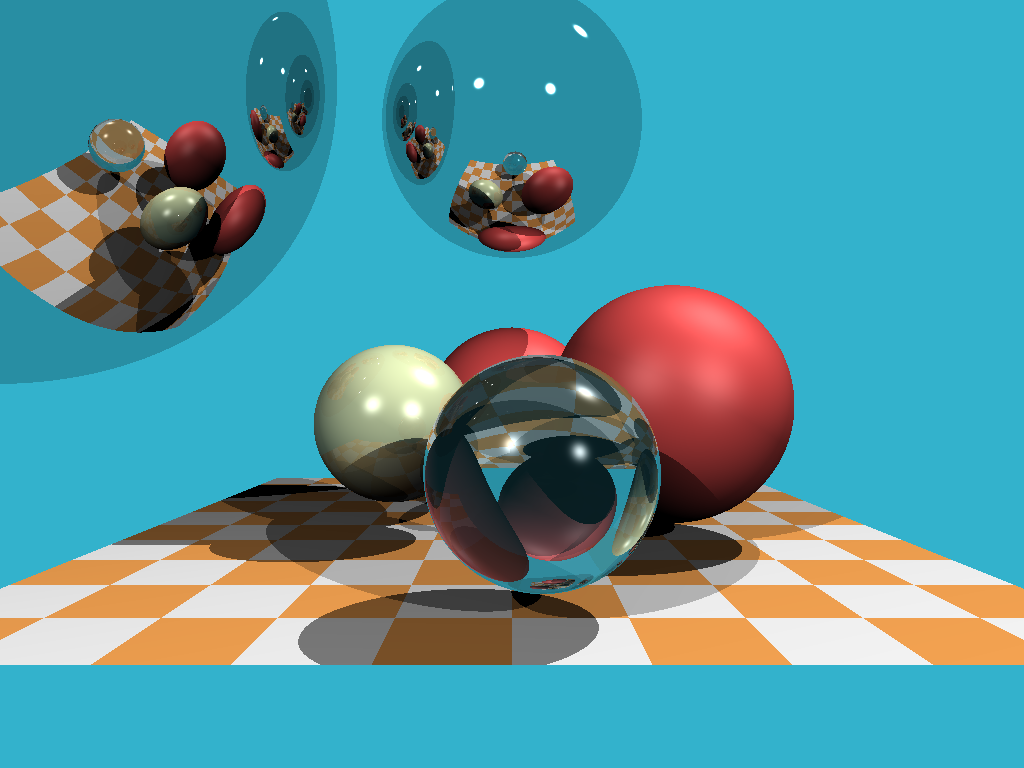
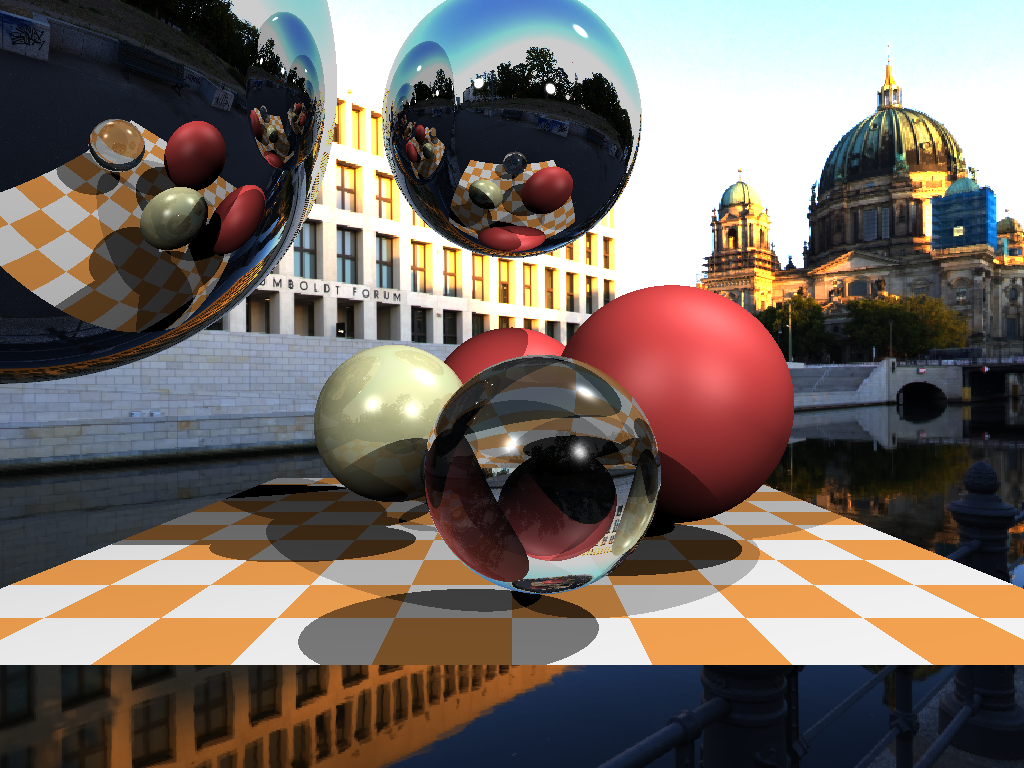
implement skybox

diff --git a/src/main.rs b/src/main.rs
@@ -1,10 +1,13 @@
 #![allow(unused_assignments)]
+use num;
 use std::fs::File;
 use std::io::prelude::*;
 pub mod geometry;
 
 const WIDTH: u32 = 1024;
 const HEIGHT: u32 = 768;
+const ENVMAP_WIDTH: u32 = 4096;
+const ENVMAP_HEIGHT: u32 = 2048;
 const FOV: f64 = 0.5;
 
 fn vec3f(x0: f64, y0: f64, z0: f64) -> geometry::Vec3f {
@@ -130,21 +133,24 @@ fn scene_intersect(orig: geometry::Vec3f, dir: geometry::Vec3f, spheres: &mut Ve
     f64::min(spheres_dist, checkerboard_dist) < 1000.
 }
 
-fn cast_ray(orig: geometry::Vec3f, dir: geometry::Vec3f, spheres: &mut Vec<Sphere>, lights: &mut Vec<Light>, depth: usize) -> geometry::Vec3f {
+fn cast_ray(orig: geometry::Vec3f, dir: geometry::Vec3f, spheres: &mut Vec<Sphere>, lights: &mut Vec<Light>, depth: usize, envmap: &Vec<geometry::Vec3<f64>>) -> geometry::Vec3f {
     let mut point: geometry::Vec3f = vec3f(0., 0., 0.);
     let mut n: geometry::Vec3f = vec3f(0., 0., 0.);
     let mut material: Material = Material{diffuse_color: vec3f(0., 0., 0.), albedo: vec4f(0., 0., 0., 0.), specular_exponent: 0., refractive_index: 0.};
 
     if depth > 4 || !scene_intersect(orig, dir, spheres, &mut point, &mut n, &mut material) {
-	return vec3f(0.2, 0.7, 0.8); // background color
+	//return vec3f(0.2, 0.7, 0.8); // background color
+	let a: u32 = num::clamp((((dir.z.atan2(dir.x) / (2.*std::f64::consts::PI) + 0.5) * ENVMAP_WIDTH as f64)) as u32, 0, ENVMAP_WIDTH - 1);
+	let b: u32 = num::clamp((dir.y.acos() / std::f64::consts::PI*ENVMAP_HEIGHT as f64) as u32, 0, ENVMAP_HEIGHT - 1);
+	return envmap[(a + b * ENVMAP_WIDTH) as usize]
     }
     let reflect_dir: geometry::Vec3f = reflect(dir, n);
     let refract_dir: geometry::Vec3f = refract(dir, n, material.refractive_index).normalize();
     let mirror_n: geometry::Vec3f = vec3f(n.x*0.001, n.y*0.001, n.z*0.001);
     let reflect_orig: geometry::Vec3f = if reflect_dir.dot_product(n) < 0. {point - mirror_n} else {point + mirror_n};
     let refract_orig: geometry::Vec3f = if refract_dir.dot_product(n) < 0. {point - mirror_n} else {point + mirror_n};
-    let reflect_color: geometry::Vec3f = cast_ray(reflect_orig, reflect_dir, spheres, lights, depth+1);
-    let refract_color: geometry::Vec3f = cast_ray(refract_orig, refract_dir, spheres, lights, depth+1);
+    let reflect_color: geometry::Vec3f = cast_ray(reflect_orig, reflect_dir, spheres, lights, depth+1, &envmap);
+    let refract_color: geometry::Vec3f = cast_ray(refract_orig, refract_dir, spheres, lights, depth+1, &envmap);
     let mut diffuse_light_intensity: f64 = 0.;
     let mut specular_light_intensity: f64 = 0.;
     for i in 0..lights.len() {
@@ -166,8 +172,8 @@ fn cast_ray(orig: geometry::Vec3f, dir: geometry::Vec3f, spheres: &mut Vec<Spher
 
 fn save_to_file(file_path: &str, frame_buffer: Vec<geometry::Vec3f>) -> std::io::Result<()> {
     let mut file: File = File::create(file_path)?;
-    file.write_all(b"P3\n1024 768\n255\n")?;
-    for i in 0usize..(HEIGHT*WIDTH) as usize {
+    file.write_all(b"P3\n1024 768\n65535\n")?;
+    for i in 0usize..(1024*768) as usize {
 	let mut c: geometry::Vec3f = frame_buffer[i];
 	let max = f64::max(c[0], f64::max(c[1], c[2]));
 	if max>1. {c = vec3f(c.x * (1./max), c.y * (1./max), c.z * (1./max))}
@@ -175,9 +181,9 @@ fn save_to_file(file_path: &str, frame_buffer: Vec<geometry::Vec3f>) -> std::io:
 	    if frame_buffer[i][j] < 0. {
 		write!(file, "0")?;
 	    } else if frame_buffer[i][j] > 1. {
-		write!(file, "255")?;
+		write!(file, "65535")?;
 	    } else {
-		write!(file, "{}", ((255 as f64 * frame_buffer[i][j]) as u16).to_string())?;
+		write!(file, "{}", ((65535 as f64 * frame_buffer[i][j]) as u16).to_string())?;
 	    }
 	    write!(file, " ")?;
 	}
@@ -195,7 +201,7 @@ fn _gradient(mut frame_buffer: Vec<geometry::Vec3f>) -> Vec<geometry::Vec3f> {
     frame_buffer
 }
 
-fn render(spheres: &mut Vec<Sphere>, lights: &mut Vec<Light>) {
+fn render(spheres: &mut Vec<Sphere>, lights: &mut Vec<Light>, envmap: &Vec<geometry::Vec3f>) {
     let file_path = "output.ppm";
     let mut frame_buffer: Vec<geometry::Vec3f> = Vec::with_capacity(WIDTH as usize*HEIGHT as usize);
     for _i in 0..WIDTH*HEIGHT {
@@ -206,11 +212,51 @@ fn render(spheres: &mut Vec<Sphere>, lights: &mut Vec<Light>) {
 	    let xp: f64 = (2.*(i as f64+0.5) as f64/WIDTH as f64-1.)*f64::tan(FOV)*WIDTH as f64/HEIGHT as f64;
 	    let yp: f64 = -(2.*(j as f64+0.5) as f64/HEIGHT as f64-1.)*f64::tan(FOV);
 	    let dir: geometry::Vec3f = geometry::Vec3f{x: xp, y: yp, z: -1.}.normalize();
-	    frame_buffer[(i+j*WIDTH) as usize] = cast_ray(geometry::Vec3f{x: 0., y: 0., z: 0.}, dir, spheres, lights, 0);
+	    frame_buffer[(i+j*WIDTH) as usize] = cast_ray(geometry::Vec3f{x: 0., y: 0., z: 0.}, dir, spheres, lights, 0, &envmap);
 	}
     }
     let _file = save_to_file(file_path, frame_buffer);
     ()
+}
+
+fn build_envmap(file_path: &str) -> Vec<geometry::Vec3f> {
+    let mut op: Vec<geometry::Vec3f> = vec![];
+    let file: String = std::fs::read_to_string(file_path).unwrap();
+    let mut r: f64 = 0.;
+    let mut g: f64 = 0.;
+    let lines: Vec<_> = file.split('\n').collect();
+//    for line in lines {
+    for i in 0..lines.len()-1 {
+	if i >= 3 {
+	    if i % 3 == 0 {
+		r = lines[i].parse::<f64>().unwrap()/65535.;
+	    }
+	    if i % 3 == 1 {
+		g = lines[i].parse::<f64>().unwrap()/65535.;
+	    }
+	    if i % 3 == 2 && i != 2 {
+		op.push(vec3f(r, g, lines[i].parse::<f64>().unwrap()/65535.));
+	    }
+	}
+    }
+//    file.write_all(b"P3\n1024 768\n65535\n")?;
+//    for i in 0usize..(HEIGHT*WIDTH) as usize {
+//	let mut c: geometry::Vec3f = frame_buffer[i];
+//	let max = f64::max(c[0], f64::max(c[1], c[2]));
+//	if max>1. {c = vec3f(c.x * (1./max), c.y * (1./max), c.z * (1./max))}
+//	for j in 0usize..3usize {
+//	    if frame_buffer[i][j] < 0. {
+//		write!(file, "0")?;
+//	    } else if frame_buffer[i][j] > 1. {
+//		write!(file, "65535")?;
+//	    } else {
+//		write!(file, "{}", ((65535 as f64 * frame_buffer[i][j]) as u16).to_string())?;
+//	    }
+//	    write!(file, " ")?;
+//	}
+//	write!(file, "\n")?;
+//    }
+    op
 }
 
 fn main() -> std::io::Result<()> {
@@ -219,6 +265,11 @@ fn main() -> std::io::Result<()> {
 //    assert!(test1.clone()*test2.clone() == geometry::Vec3i{x: 10, y: 10, z: 10});
 //    assert!(test1.clone()+test2.clone() == geometry::Vec3i{x: 7, y: 7, z: 7});
 //    assert!(test1.clone()-test2.clone() == geometry::Vec3i{x: 3, y: 3, z: 3});
+
+    let env_file_path = "envmaps/parsed_bank.ppm";
+    let envmap: Vec<geometry::Vec3f> = build_envmap(env_file_path);
+//    let _file = save_to_file("envmap_output.ppm", envmap);
+    
     let mut spheres: Vec<Sphere> = vec![];
     spheres.push(get_sphere(vec3f(-3., -1.0, -18.), 2., ivory()));
     spheres.push(get_sphere(vec3f(0.5, -1.5, -12.), 2., glass()));
@@ -232,6 +283,6 @@ fn main() -> std::io::Result<()> {
     lights.push(get_light(vec3f(30., 50., -20.), 1.8));
     lights.push(get_light(vec3f(30., 20., 30.), 1.7));
     
-    render(&mut spheres, &mut lights);
+    render(&mut spheres, &mut lights, &envmap);
     Ok(())
 }

diff --git a/envmaps/parse.py b/envmaps/parse.py
@@ -1,0 +1,15 @@
+import itertools
+import sys
+
+# A tool to put one r/g/b value per line on a .ppm image file, for easier iterating in Rust
+# After running it is necessary to manually remove the newline after line 2 and place a space between line 2 and (the old) line 3's contents
+
+with open(sys.argv[1]) as f:
+    lines = [line.split() for line in f]
+
+lines = list(itertools.chain.from_iterable(lines))
+
+with open(sys.argv[2], 'w+') as f:
+    for line in lines:
+        f.write(line)
+        f.write("\n")
